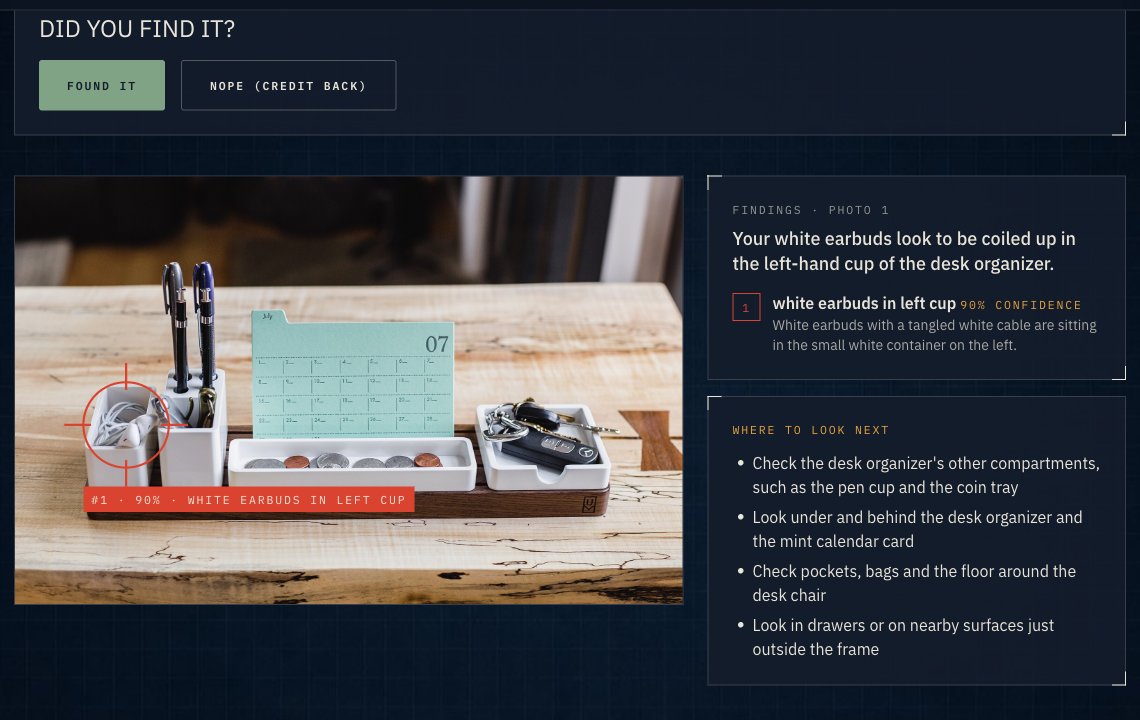
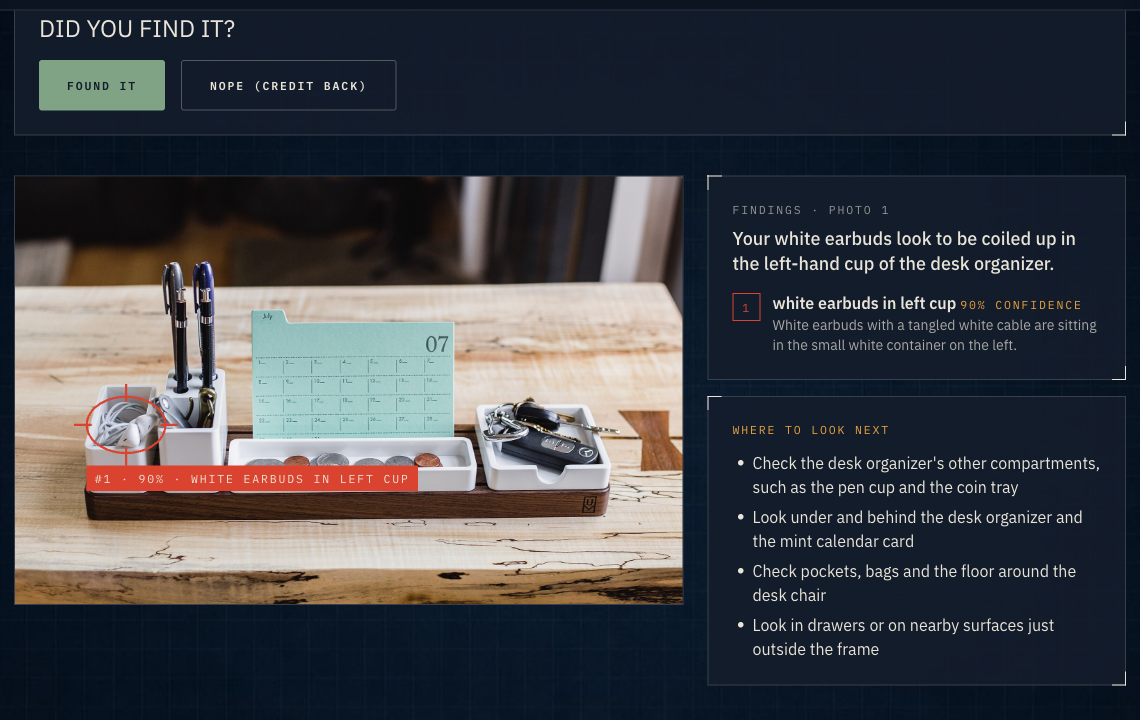
Results: the find ring follows the box; tags never cover rings or each other

Changed region(s): [[0.0614, 0.5194, 0.3684, 0.7333]]

diff --git a/app/src/app/search/[id]/Circles.tsx b/app/src/app/search/[id]/Circles.tsx
@@ -18,16 +18,19 @@ export function Circles({ src, photo }: { src: string; photo: PhotoResult }) {
         {candidates.map((c, i) => {
           const cx = (c.x0 + c.x1) / 2;
           const cy = (c.y0 + c.y1) / 2;
-          const r = Math.max((c.x1 - c.x0) / 2, (c.y1 - c.y0) / 2, minR) * 1.3;
+          // An ellipse that follows the box's own shape. (It was a circle from the box's longer
+          // side, so a wide, short box like keys in a tray got a ring far bigger than the keys.)
+          const rx = Math.max((c.x1 - c.x0) / 2, minR) * 1.2;
+          const ry = Math.max((c.y1 - c.y0) / 2, minR) * 1.2;
           const top = i === 0;
           const colour = top ? "#d9432f" : "#e8a33d";
-          const tick = r * 0.45;
+          const tick = Math.min(rx, ry) * 0.45;
           return (
             <g key={i} stroke={colour} fill="none" strokeWidth={top ? stroke * 1.6 : stroke} opacity={top ? 1 : 0.45 + c.confidence * 0.5}>
-              <circle cx={cx} cy={cy} r={r} strokeDasharray={top ? undefined : `${stroke * 6} ${stroke * 4}`} />
+              <ellipse cx={cx} cy={cy} rx={rx} ry={ry} strokeDasharray={top ? undefined : `${stroke * 6} ${stroke * 4}`} />
               {top && (
                 <path
-                  d={`M${cx} ${cy - r - tick}V${cy - r + tick * 0.4} M${cx} ${cy + r - tick * 0.4}V${cy + r + tick} M${cx - r - tick} ${cy}H${cx - r + tick * 0.4} M${cx + r - tick * 0.4} ${cy}H${cx + r + tick}`}
+                  d={`M${cx} ${cy - ry - tick}V${cy - ry + tick * 0.4} M${cx} ${cy + ry - tick * 0.4}V${cy + ry + tick} M${cx - rx - tick} ${cy}H${cx - rx + tick * 0.4} M${cx + rx - tick * 0.4} ${cy}H${cx + rx + tick}`}
                 />
               )}
             </g>
@@ -35,23 +38,29 @@ export function Circles({ src, photo }: { src: string; photo: PhotoResult }) {
         })}
       </svg>
       {candidates.map((c, i) => {
-        const r = Math.max((c.x1 - c.x0) / 2, (c.y1 - c.y0) / 2, minR) * 1.3;
+        const rx = Math.max((c.x1 - c.x0) / 2, minR) * 1.2;
+        const ry = Math.max((c.y1 - c.y0) / 2, minR) * 1.2;
         const x = (c.x0 + c.x1) / 2 / W;
         // Near an edge, the tag starts (or ends) at the ring's outer side instead of centring on it,
         // so it never runs off the photo. (Version 1's tags were clipped at the left edge.)
         const anchor = x < 0.3 ? "translate-x-0" : x > 0.7 ? "-translate-x-full" : "-translate-x-1/2";
-        const left = x < 0.3 ? Math.max(0, x - r / W) : x > 0.7 ? Math.min(1, x + r / W) : x;
+        const left = x < 0.3 ? Math.max(0, x - rx / W) : x > 0.7 ? Math.min(1, x + rx / W) : x;
+        // The tag sits under its ring, unless that would run off the bottom: then above it.
+        const cy = (c.y0 + c.y1) / 2;
+        const below = ((cy + ry * 1.45) / H) * 100;
+        const top = below <= 92 ? `${below}%` : `calc(${((cy - ry * 1.45) / H) * 100}% - 1.6rem)`;
         return (
           <span
             key={i}
             className={`label absolute ${anchor} whitespace-nowrap px-2 py-1 ${i === 0 ? "bg-signal text-ink" : "bg-cream/85 text-flare"}`}
             style={{
               left: `${left * 100}%`,
-              // just under the ring
-              top: `${Math.min(92, (((c.y0 + c.y1) / 2 + r * 1.45) / H) * 100)}%`,
+              top,
             }}
           >
-            #{i + 1} · {Math.round(c.confidence * 100)}% · {c.label}
+            {/* Faint guesses get just their number on the photo, so tags don't collide; the full
+                text is in the findings list beside it. */}
+            {i === 0 || c.confidence >= 0.4 ? `#${i + 1} · ${Math.round(c.confidence * 100)}% · ${c.label}` : `#${i + 1}`}
           </span>
         );
       })}

diff --git a/README.md b/README.md
@@ -97,7 +97,6 @@ Version 1 was bright and jokey (a hand-drawn ring, sticker shadows, a "vs Mom" t
 - Google's sign-in window says "continue to lost-cause-2026.firebaseapp.com" (Firebase's default sign-in domain), not the site's own address.
 - **The AI can be wrong.** It works best when the item is visible somewhere in the photo. It can't see under cushions, and says so with low confidence.
 - The "photo of a person" check hasn't been tested against a real photo of a person yet.
-- Labels can overlap when two marks are close together.
 - There's no self-serve account deletion yet; it's by email (see the privacy page).
 - No custom domain yet.
 
